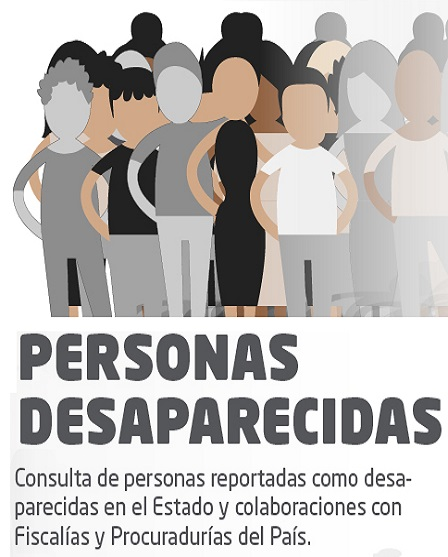
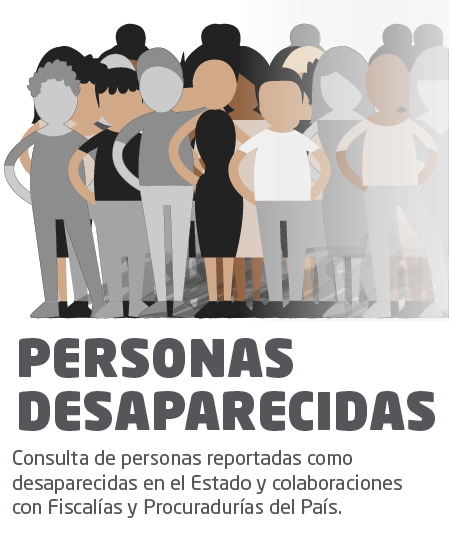
Se quitó el contador y se actualizó l aimagen del slider

diff --git a/desaparecidos/bienvenida.html b/desaparecidos/bienvenida.html
@@ -210,9 +210,9 @@
             </div>
             <div class="col-xs-12 col-sm-4 lineaFooter">
                 <h4 class="negrita">Visitante No.</h4>
-                    <div class="textwidget"><a href="http://www.easycounter.com/es/">
+                    <!--<div class="textwidget"><a href="http://www.easycounter.com/es/">
                         <img src="//www.easycounter.com/counter.php?contactofiscalia" border="0" alt="Contador"></a>
-                    </div>
+                    </div>-->
                 </div>
             </div>
         </div>
